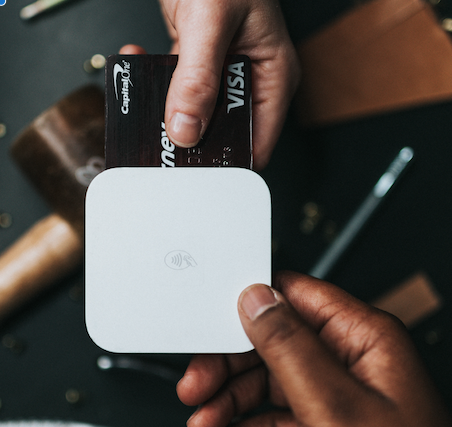
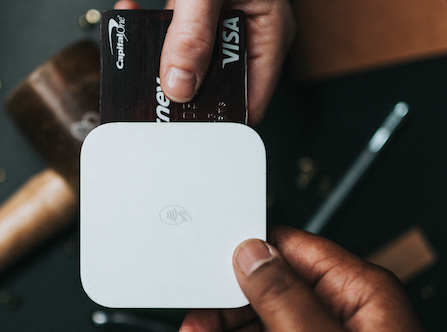
final changes to landing page

diff --git a/index.html b/index.html
@@ -35,7 +35,9 @@
           you to make quick cash worry free with no hassle. So dust off those
           old tools and make some money now!
         </p>
-        <button class="btn">Begin Here</button>
+        <a href="https://tool-shed.netlify.com/">
+          <button class="btn">Begin Here</button>
+        </a>
       </div>
     </div>
     <!--end of topPara div-->
@@ -72,8 +74,6 @@
         <img
           class="bottomContentImg"
           src="imgs/Screen Shot 2019-05-22 at 4.34.09 PM.png"
-          width="504px"
-          height="335px"
         />
       </div>
       <!--end of content div-->
@@ -120,12 +120,12 @@
       </div>
       <!--end of slides div-->
 
-      <a class="prev" onclick="plusSlides(-1)">&#10094;</a>
-      <a class="next" onclick="plusSlides(1)">&#10095;</a>
+      <a class="prev">&#10094;</a>
+      <a class="next">&#10095;</a>
     </div>
     <!--end of customerComments div-->
     <footer class="footerBar">
-      <img class="footerLogo" src="imgs/logo.jpg" />
+      <a id="footerLogo" href="index.html"> <img src="imgs/logo.jpg" /> </a>
       <a href="about.html">
         <button class="btn">Developers</button>
       </a>

diff --git a/JS/home-page.js b/JS/home-page.js
@@ -1,22 +1,34 @@
 // customer comments script
-var slideIndex = 1;
+let slideIndex = 100;
 slide(slideIndex);
 
-function plusSlides(n) {
-  slide((slideIndex += n));
-}
+const arrowClickPrev = document.querySelector(".prev");
+arrowClickPrev.addEventListener("click", function(n) {
+  slide((slideIndex += -1));
+});
+
+const arrowClickNext = document.querySelector(".next");
+arrowClickNext.addEventListener("click", function(n) {
+  slide((slideIndex += 1));
+});
 
 function slide(n) {
-  var i;
-  var slides = document.getElementsByClassName("slides");
+  let i;
+  let slides = document.querySelectorAll(".slides");
   if (n > slides.length) {
     slideIndex = 1;
   }
   if (n < 1) {
     slideIndex = slides.length;
   }
+
   for (i = 0; i < slides.length; i++) {
     slides[i].style.display = "none";
   }
   slides[slideIndex - 1].style.display = "block";
 }
+//events
+const mouseDown = document.querySelector(".btn");
+mouseDown.addEventListener("mousedown", function() {
+  mouseDown.style.background = "purple";
+});

diff --git a/css/index.css b/css/index.css
@@ -113,6 +113,7 @@
   border-radius: 30px;
   border: 10px solid #65054e;
   position: relative;
+  font-family: "lato", sans-serif;
 }
 .slides {
   display: none;
@@ -174,7 +175,7 @@
   font-size: 1.6rem;
   text-align: center;
   padding: 2% 0%;
-  border-bottom: 3px dotted #65054e;
+  border-bottom: 2px dotted #65054e;
 }
 .devInfoSec .devInfo .devName {
   background: #ffb843;

diff --git a/less/page-content.less b/less/page-content.less
@@ -65,6 +65,7 @@
   border-radius: 30px;
   border: 10px solid @purple;
   position: relative;
+  font-family: "lato", sans-serif;
 }
 
 .slides {
@@ -133,7 +134,7 @@
     font-size: 1.6rem;
     text-align: center;
     padding: 2% 0%;
-    border-bottom: 3px dotted @purple;
+    border-bottom: 2px dotted @purple;
 
     .devName {
       background: @yellow;

diff --git a/less/variables.less b/less/variables.less
@@ -12,3 +12,9 @@
 
 @desktop: ~"(min-width:1000px)";
 @tablet: ~"(min-width:600px)";
+
+@lambda-times-color-primary: #333;
+@lambda-times-color-white: #fff;
+@lambda-times-color-black: #000;
+@lambda-times-color-lightgrey: lightgrey;
+@lambda-times-color-background: #f1f1f1;
